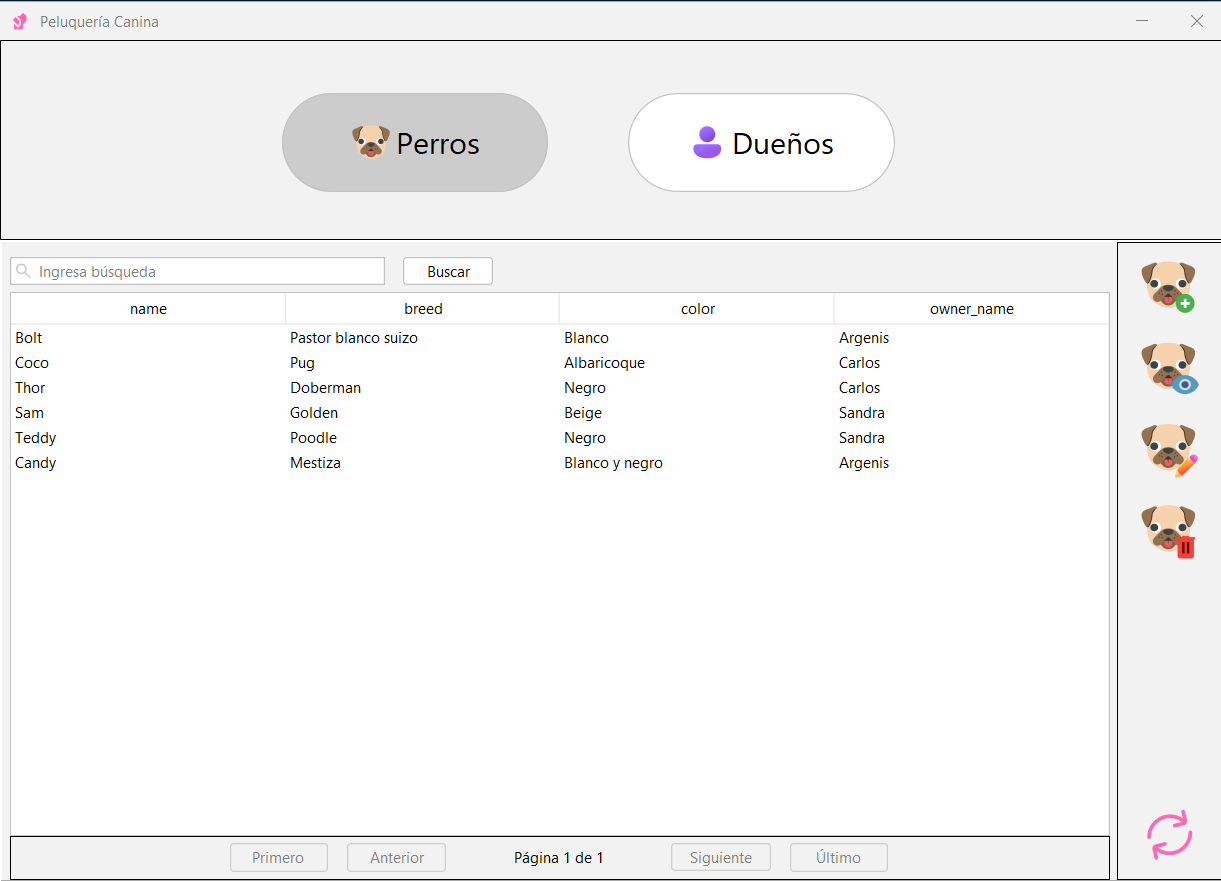
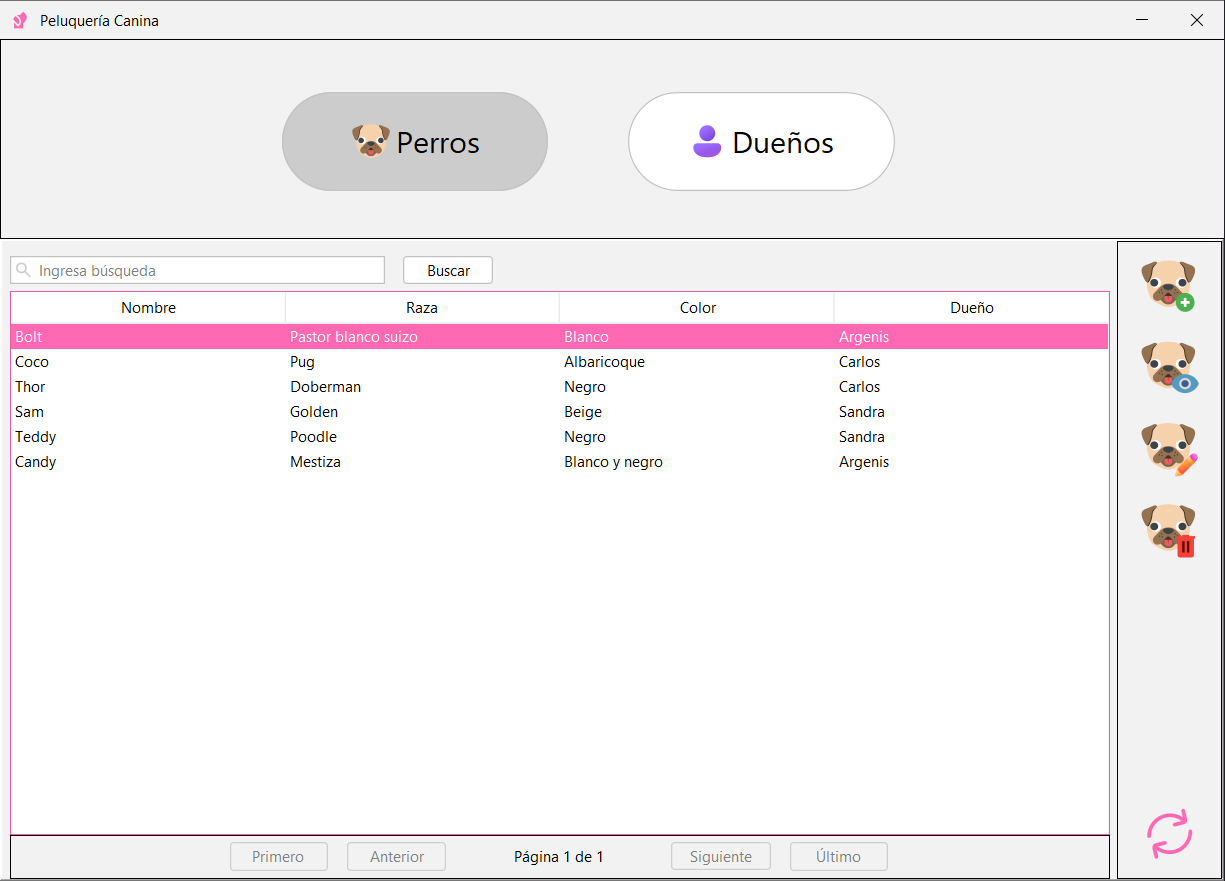
refactor: translate table headers to Spanish

diff --git a/src/main/java/com/argenischacon/gui/dog/DogPanel.java b/src/main/java/com/argenischacon/gui/dog/DogPanel.java
@@ -50,7 +50,7 @@ public class DogPanel extends javax.swing.JPanel {
     private void initTable() {
         dogsTable.setSelectionMode(ListSelectionModel.SINGLE_SELECTION);
 
-        String[] columnNames = new String[]{"id", "name", "breed", "color", "owner_id", "owner_name"};
+        String[] columnNames = new String[]{"id", "Nombre", "Raza", "Color", "owner_id", "Dueño"};
         model = new PaginatedTableModel(new ArrayList<>(), ROWS_PER_PAGE, 0L, columnNames);
         dogsTable.setModel(model);
 

diff --git a/src/main/java/com/argenischacon/gui/owner/OwnerPanel.java b/src/main/java/com/argenischacon/gui/owner/OwnerPanel.java
@@ -50,7 +50,7 @@ public class OwnerPanel extends javax.swing.JPanel {
     private void initTable() {
         ownersTable.setSelectionMode(ListSelectionModel.SINGLE_SELECTION);
 
-        String[] columnNames = new String[]{"id", "dni", "name", "lastname", "phone"};
+        String[] columnNames = new String[]{"id", "DNI", "Nombre", "Apellido", "Teléfono"};
         model = new PaginatedTableModel(new ArrayList<>(), ROWS_PER_PAGE, 0L, columnNames);
         ownersTable.setModel(model);
 
